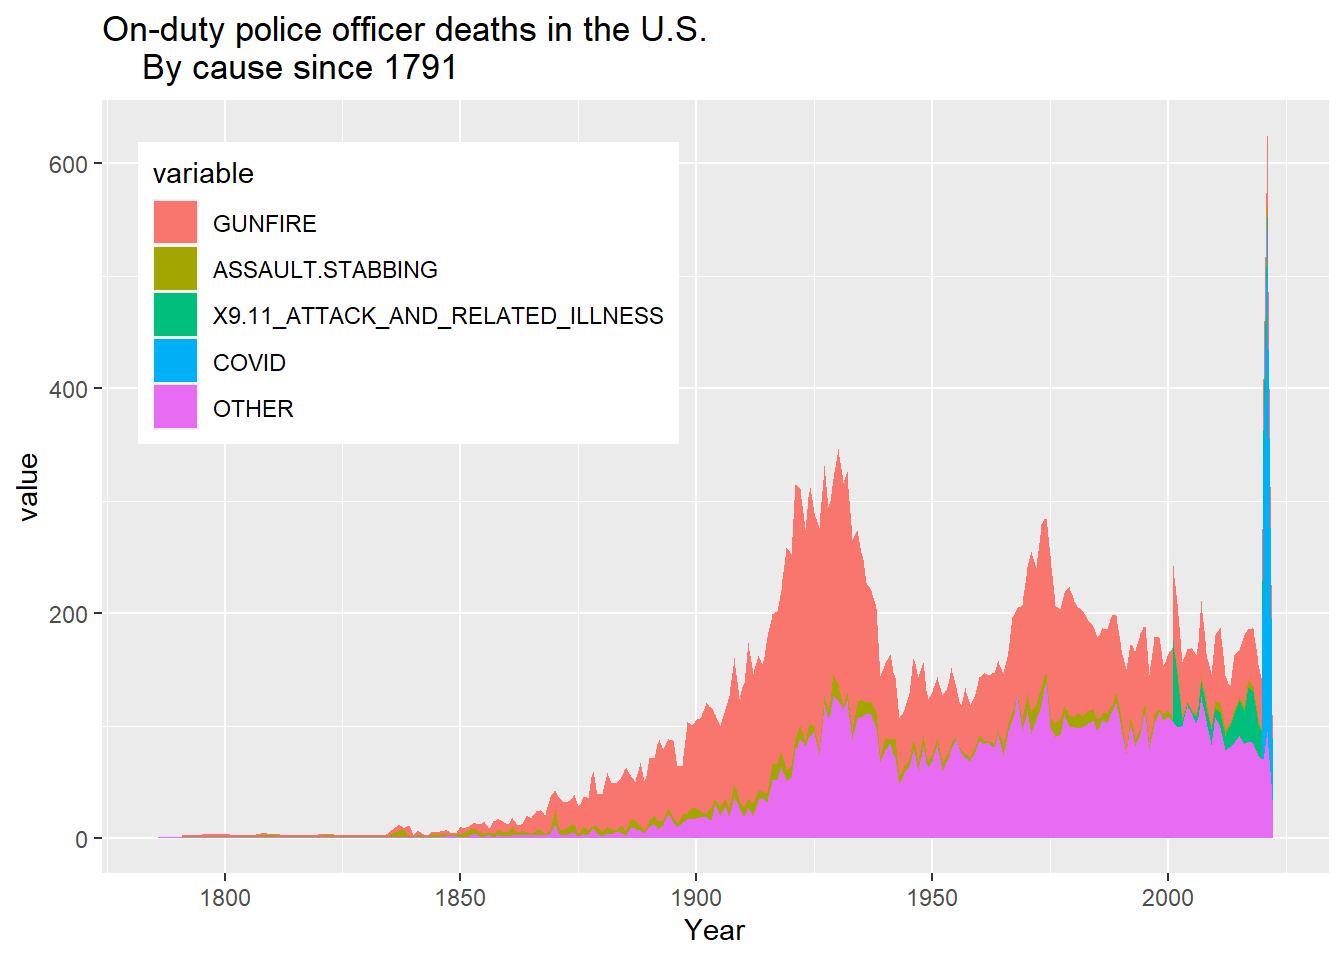
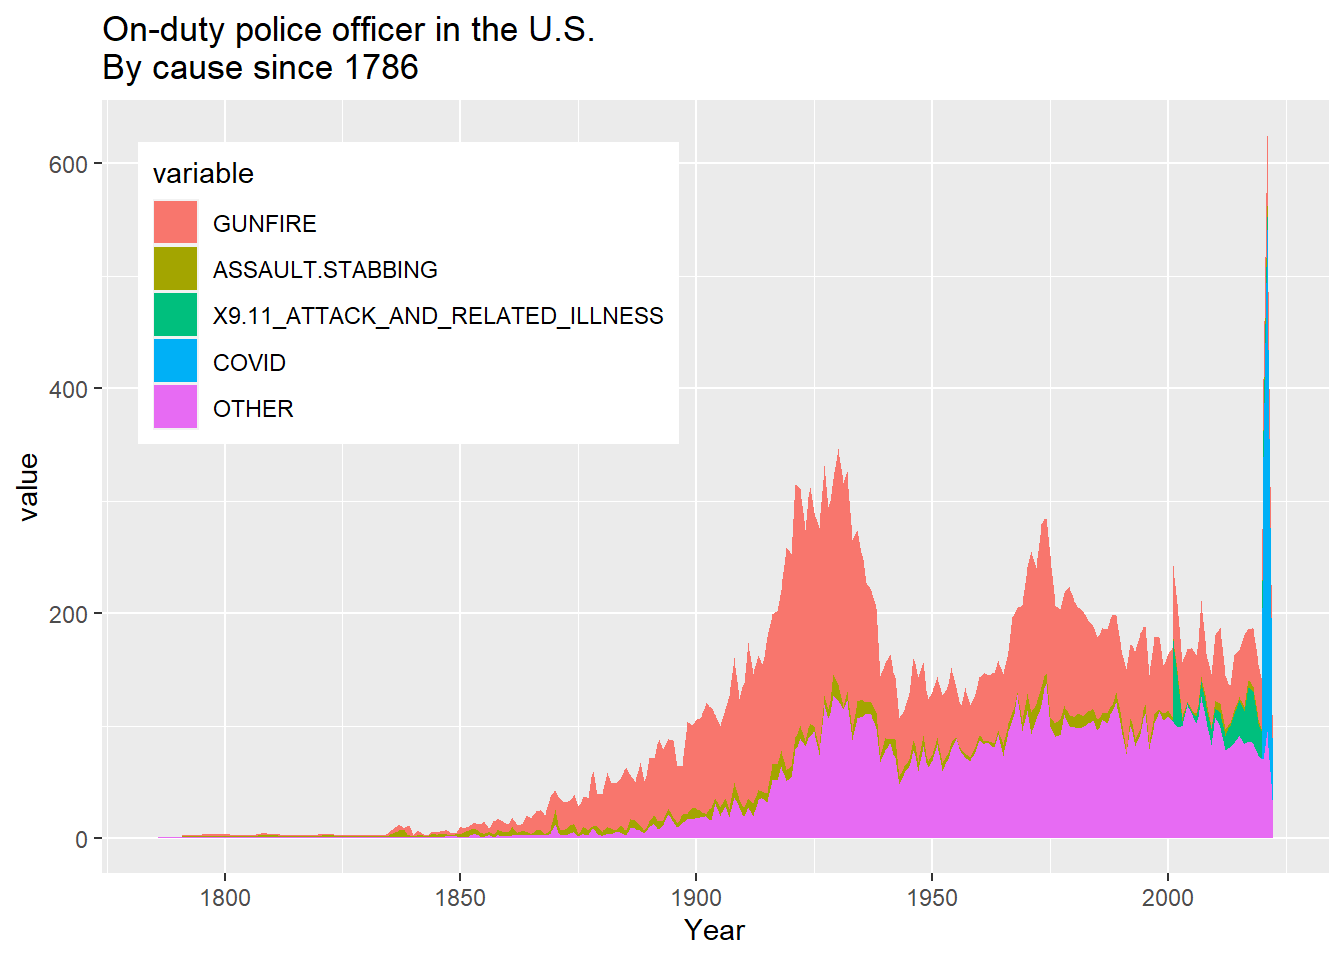
Recreated lost scripts

Changed region(s): [[0.0625, 0.0, 0.5312, 0.0938]]

diff --git a/docs/visualization_exercise.html b/docs/visualization_exercise.html
@@ -207,11 +207,8 @@ code span.wa { color: #60a0b0; font-weight: bold; font-style: italic; } /* Warni
 
 </header>
 
-<p>This visualization exercise was conducted to replicate the line chart published on fivethirtyeight.com published in the year 2016 (On-duty police officer deaths in the U.S. <a href="https://fivethirtyeight.com/features/the-52-best-and-weirdest-charts-we-made-in-2016/">#15. On -duty police officer deaths</a> The data source for this chart was from the <a href="https://www.odmp.org/">Officer Down Memorial Page (ODMP)</a>. In trying to access the website, I was only able get annual fallen officer statistics <a href="https://www.odmp.org/statistics">Annual Fallen Officer Statistics</a> rather than an aggregate data begining from the year 1700’s as depicted on the fiverthirtyeight website. Alternatively, I was able to look through statista <a href="https://www.statista.com/statistics/1070627/us-law-enforcement-deaths-by-cause-historical/#:~:text=Jun%2021%2C%202022%20Since%20the%201780s%2C%20over%2025%2C000,law%20enforcement%20deaths%20recorded%2C%20particularly%20before%20the%201930s.">U.S. law enforcement deaths 1786-2022, by cause | Statista</a> which also claims to have obtained their data from ODMP. Therefor I used the dataset I found on statista because it is an aggregated data by year begining from the 1700’s. The only difference was that the data in statista only had four catagories causes while the original included heart attack, accidents, etc,., The dataset obtained from statista includes causes such as Gunfire, Assaults/Stabbing, 9/11 attack and related illness, Covid and others. For the data they have in common, its very similar.</p>
-<p>The below figure shows the chart I will attempt to replicate in this exercise</p>
-<p><img src="images/paste-C7215F2E.png" class="img-fluid" width="511"></p>
-<p>Below is the line chart I replicated. All revelant codes are described below.</p>
-<p><img src="images/paste-32BC4579.png" class="img-fluid" width="566"></p>
+<p>This visualization excercise was conducted to replicate the line chart published on <a href="https://fivethirtyeight.com/features/the-52-best-and-weirdest-charts-we-made-in-2016/">fivethirtyeight.com</a> in the year 2016. The chart is call “On duty police officer deaths in the U.S. By Cause”. The data source for this chart was from the <a href="https://www.odmp.org/">Officer Down Memorial Page(ODMP)</a>. In trying to access the website for this particular dataset, I was only able to get annual fallen officer statistics rather than an aggregate data beginning in 1700’s as depicted on the fivethirtyeightwebiste. Alternativly, I was able to look through statista <a href="https://www.statista.com/statistics/1070627/us-law-enforcement-deaths-by-cause-historical/#:~:text=Jun%2021%2C%202022%20Since%20the%201780s%2C%20over%2025%2C000,law%20enforcement%20deaths%20recorded%2C%20particularly%20before%20the%201930s.">U.S. law enforcement deaths 1786-2022, by cause | Statista</a> which also used ODMP data, and found an aggregate dataset from the 1700’s to 2020. The only difference was that the data in statista focused on four major catagories and also added COVID as a new category. The below figure show teh chart I will attempt to replicate in this exercise.</p>
+<p><img src="images/paste-7F085409.png" class="img-fluid"></p>
 <p><strong>Data import and cleaning</strong></p>
 <div class="cell">
 <div class="cell-output cell-output-stderr">
@@ -226,13 +223,17 @@ code span.wa { color: #60a0b0; font-weight: bold; font-style: italic; } /* Warni
 <div class="cell-output cell-output-stderr">
 <pre><code>Warning: package 'reshape' was built under R version 4.2.2</code></pre>
 </div>
+<div class="cell-output cell-output-stderr">
+<pre><code>Warning: package 'ggthemes' was built under R version 4.2.2</code></pre>
+</div>
 </div>
 <div class="cell">
-<div class="sourceCode cell-code" id="cb5"><pre class="sourceCode r code-with-copy"><code class="sourceCode r"><span id="cb5-1"><a href="#cb5-1" aria-hidden="true" tabindex="-1"></a>lawdata<span class="ot">&lt;-</span><span class="fu">read.csv</span>(<span class="st">"data/lawenforcementdata.csv"</span>)</span></code><button title="Copy to Clipboard" class="code-copy-button"><i class="bi"></i></button></pre></div>
+<div class="sourceCode cell-code" id="cb6"><pre class="sourceCode r code-with-copy"><code class="sourceCode r"><span id="cb6-1"><a href="#cb6-1" aria-hidden="true" tabindex="-1"></a>lawdata<span class="ot">&lt;-</span><span class="fu">read.csv</span>(<span class="st">"data/lawenforcementdata.csv"</span>)</span></code><button title="Copy to Clipboard" class="code-copy-button"><i class="bi"></i></button></pre></div>
 </div>
-<p>#check the data</p>
+<p>Data summary. The available data varies from the year 1786 to 2022 for Gunfire, Assault/Stabbing, 9/11 and related illness, COVID and other.</p>
 <div class="cell">
-<div class="sourceCode cell-code" id="cb6"><pre class="sourceCode r code-with-copy"><code class="sourceCode r"><span id="cb6-1"><a href="#cb6-1" aria-hidden="true" tabindex="-1"></a><span class="fu">summary</span>(lawdata)</span></code><button title="Copy to Clipboard" class="code-copy-button"><i class="bi"></i></button></pre></div>
+<div class="sourceCode cell-code" id="cb7"><pre class="sourceCode r code-with-copy"><code class="sourceCode r"><span id="cb7-1"><a href="#cb7-1" aria-hidden="true" tabindex="-1"></a>message<span class="ot">=</span><span class="cn">FALSE</span></span>
+<span id="cb7-2"><a href="#cb7-2" aria-hidden="true" tabindex="-1"></a><span class="fu">summary</span>(lawdata)</span></code><button title="Copy to Clipboard" class="code-copy-button"><i class="bi"></i></button></pre></div>
 <div class="cell-output cell-output-stdout">
 <pre><code>      Year         GUNFIRE       ASSAULT.STABBING
  Min.   :1786   Min.   :  1.00   Min.   : 1.00   
@@ -252,13 +253,12 @@ code span.wa { color: #60a0b0; font-weight: bold; font-style: italic; } /* Warni
  NA's   :217                      NA's   :234     NA's   :67      </code></pre>
 </div>
 </div>
-<p>#in order to use line chart with multiple variables we #first need to change the df from wide to long using the melt function</p>
+<p>#changing my dataset from wide to long</p>
 <div class="cell">
-<div class="sourceCode cell-code" id="cb8"><pre class="sourceCode r code-with-copy"><code class="sourceCode r"><span id="cb8-1"><a href="#cb8-1" aria-hidden="true" tabindex="-1"></a>data_long1<span class="ot">&lt;-</span><span class="fu">melt</span>(lawdata, <span class="at">id.vars=</span><span class="fu">c</span>(<span class="st">"Year"</span>))</span></code><button title="Copy to Clipboard" class="code-copy-button"><i class="bi"></i></button></pre></div>
+<div class="sourceCode cell-code" id="cb9"><pre class="sourceCode r code-with-copy"><code class="sourceCode r"><span id="cb9-1"><a href="#cb9-1" aria-hidden="true" tabindex="-1"></a>data_long1<span class="ot">&lt;-</span><span class="fu">melt</span>(lawdata, <span class="at">id.vars=</span><span class="fu">c</span>(<span class="st">"Year"</span>))</span></code><button title="Copy to Clipboard" class="code-copy-button"><i class="bi"></i></button></pre></div>
 </div>
-<p>#check if the data look ok</p>
 <div class="cell">
-<div class="sourceCode cell-code" id="cb9"><pre class="sourceCode r code-with-copy"><code class="sourceCode r"><span id="cb9-1"><a href="#cb9-1" aria-hidden="true" tabindex="-1"></a>data_long1</span></code><button title="Copy to Clipboard" class="code-copy-button"><i class="bi"></i></button></pre></div>
+<div class="sourceCode cell-code" id="cb10"><pre class="sourceCode r code-with-copy"><code class="sourceCode r"><span id="cb10-1"><a href="#cb10-1" aria-hidden="true" tabindex="-1"></a>data_long1</span></code><button title="Copy to Clipboard" class="code-copy-button"><i class="bi"></i></button></pre></div>
 <div class="cell-output cell-output-stdout">
 <pre><code>     Year                         variable value
 1    1786                          GUNFIRE    NA
@@ -1448,11 +1448,10 @@ code span.wa { color: #60a0b0; font-weight: bold; font-style: italic; } /* Warni
 1185 2022                            OTHER    35</code></pre>
 </div>
 </div>
-<p>#Plot your line chart using ggplot</p>
 <div class="cell">
-<div class="sourceCode cell-code" id="cb11"><pre class="sourceCode r code-with-copy"><code class="sourceCode r"><span id="cb11-1"><a href="#cb11-1" aria-hidden="true" tabindex="-1"></a><span class="fu">ggplot</span>(data_long1,<span class="fu">aes</span>(<span class="at">x=</span>Year,<span class="at">y=</span>value, <span class="at">fill=</span>variable))<span class="sc">+</span><span class="fu">geom_area</span>()<span class="sc">+</span></span>
-<span id="cb11-2"><a href="#cb11-2" aria-hidden="true" tabindex="-1"></a>  <span class="fu">ggtitle</span>(<span class="st">"On-duty police officer deaths in the U.S.</span></span>
-<span id="cb11-3"><a href="#cb11-3" aria-hidden="true" tabindex="-1"></a><span class="st">    By cause since 1791"</span>) <span class="sc">+</span> <span class="fu">theme</span>(<span class="at">legend.position=</span><span class="fu">c</span>(.<span class="dv">25</span>, .<span class="dv">75</span>))</span></code><button title="Copy to Clipboard" class="code-copy-button"><i class="bi"></i></button></pre></div>
+<div class="sourceCode cell-code" id="cb12"><pre class="sourceCode r code-with-copy"><code class="sourceCode r"><span id="cb12-1"><a href="#cb12-1" aria-hidden="true" tabindex="-1"></a><span class="fu">ggplot</span>(data_long1,<span class="fu">aes</span>(<span class="at">x=</span>Year,<span class="at">y=</span>value, <span class="at">fill=</span>variable))<span class="sc">+</span><span class="fu">geom_area</span>()<span class="sc">+</span></span>
+<span id="cb12-2"><a href="#cb12-2" aria-hidden="true" tabindex="-1"></a><span class="fu">ggtitle</span>(<span class="st">"On-duty police officer in the U.S. </span></span>
+<span id="cb12-3"><a href="#cb12-3" aria-hidden="true" tabindex="-1"></a><span class="st">By cause since 1786"</span>) <span class="sc">+</span> <span class="fu">theme</span>(<span class="at">legend.position=</span><span class="fu">c</span>(.<span class="dv">25</span>,.<span class="dv">75</span>))</span></code><button title="Copy to Clipboard" class="code-copy-button"><i class="bi"></i></button></pre></div>
 <div class="cell-output cell-output-stderr">
 <pre><code>Warning: Removed 598 rows containing non-finite values (`stat_align()`).</code></pre>
 </div>
@@ -1460,6 +1459,22 @@ code span.wa { color: #60a0b0; font-weight: bold; font-style: italic; } /* Warni
 <p><img src="visualization_exercise_files/figure-html/unnamed-chunk-6-1.png" class="img-fluid" width="672"></p>
 </div>
 </div>
+<p>#I tried adding the theme_fivethirtyeight to match the aesthetics but it doesnt look like it worked? The code I used to remove the legend title variable didnt seem to work either.</p>
+<div class="cell">
+<div class="sourceCode cell-code" id="cb14"><pre class="sourceCode r code-with-copy"><code class="sourceCode r"><span id="cb14-1"><a href="#cb14-1" aria-hidden="true" tabindex="-1"></a><span class="fu">ggplot</span>(data_long1,<span class="fu">aes</span>(<span class="at">x=</span>Year,<span class="at">y=</span>value, <span class="at">fill=</span>variable))<span class="sc">+</span><span class="fu">geom_area</span>()<span class="sc">+</span></span>
+<span id="cb14-2"><a href="#cb14-2" aria-hidden="true" tabindex="-1"></a><span class="fu">ggtitle</span>(<span class="st">"On-duty police officer in the U.S. </span></span>
+<span id="cb14-3"><a href="#cb14-3" aria-hidden="true" tabindex="-1"></a><span class="st">By cause since 1786"</span>) <span class="sc">+</span> <span class="fu">theme</span>(<span class="at">legend.position=</span><span class="fu">c</span>(.<span class="dv">25</span>,.<span class="dv">75</span>)) <span class="sc">+</span> <span class="fu">theme</span>(<span class="at">legend.title=</span><span class="fu">element_blank</span>()<span class="sc">+</span> <span class="fu">theme_fivethirtyeight</span>())<span class="sc">+</span> <span class="fu">annotate</span>(<span class="at">geom=</span><span class="st">"text"</span>,<span class="at">x=</span><span class="dv">2001</span>,<span class="at">y=</span><span class="dv">72</span>, <span class="at">label =</span><span class="st">"72 police</span></span>
+<span id="cb14-4"><a href="#cb14-4" aria-hidden="true" tabindex="-1"></a><span class="st">                                                                                                                                   officeres died</span></span>
+<span id="cb14-5"><a href="#cb14-5" aria-hidden="true" tabindex="-1"></a><span class="st">                                                                                                                                   in teh 9/11 </span></span>
+<span id="cb14-6"><a href="#cb14-6" aria-hidden="true" tabindex="-1"></a><span class="st">                                                                                                                                   terrorist attack"</span>, <span class="at">hjust=</span><span class="st">"top"</span>)</span></code><button title="Copy to Clipboard" class="code-copy-button"><i class="bi"></i></button></pre></div>
+<div class="cell-output cell-output-stderr">
+<pre><code>Warning: Removed 598 rows containing non-finite values (`stat_align()`).</code></pre>
+</div>
+<div class="cell-output-display">
+<p><img src="visualization_exercise_files/figure-html/unnamed-chunk-7-1.png" class="img-fluid" width="672"></p>
+</div>
+</div>
+<p>This was a very useful exercise. The most important thing I learned was the importance of the data structure and how it needs to be manipulated to fit into a data structure (wide or long) in order for it to be compatible with the chart type you are using. Finding the specific color codes and background shades was very challenging. I did try to use theme_fivethirtyeight get the overall colors and themes to match but it doesn’t look like it worked.</p>
 
 
 

diff --git a/docs/datanalysis_exercise.html b/docs/datanalysis_exercise.html
@@ -7,7 +7,7 @@
 <meta name="viewport" content="width=device-width, initial-scale=1.0, user-scalable=yes">
 
 <meta name="author" content="Betelihem Getachew">
-<meta name="dcterms.date" content="2023-02-07">
+<meta name="dcterms.date" content="2023-02-09">
 
 <title>My Data Analysis Portfolio - Module 4 - Data Finding and Wrangling</title>
 <style>
@@ -212,7 +212,7 @@ code span.wa { color: #60a0b0; font-weight: bold; font-style: italic; } /* Warni
     <div>
     <div class="quarto-title-meta-heading">Published</div>
     <div class="quarto-title-meta-contents">
-      <p class="date">February 7, 2023</p>
+      <p class="date">February 9, 2023</p>
     </div>
   </div>
   
